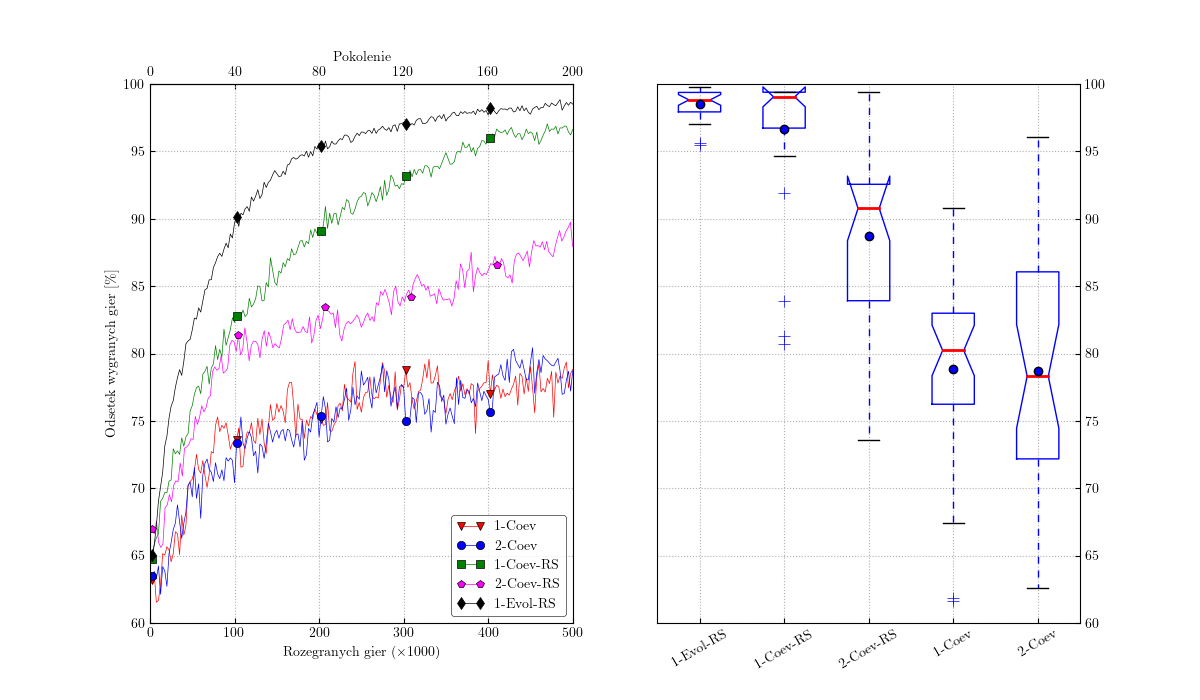
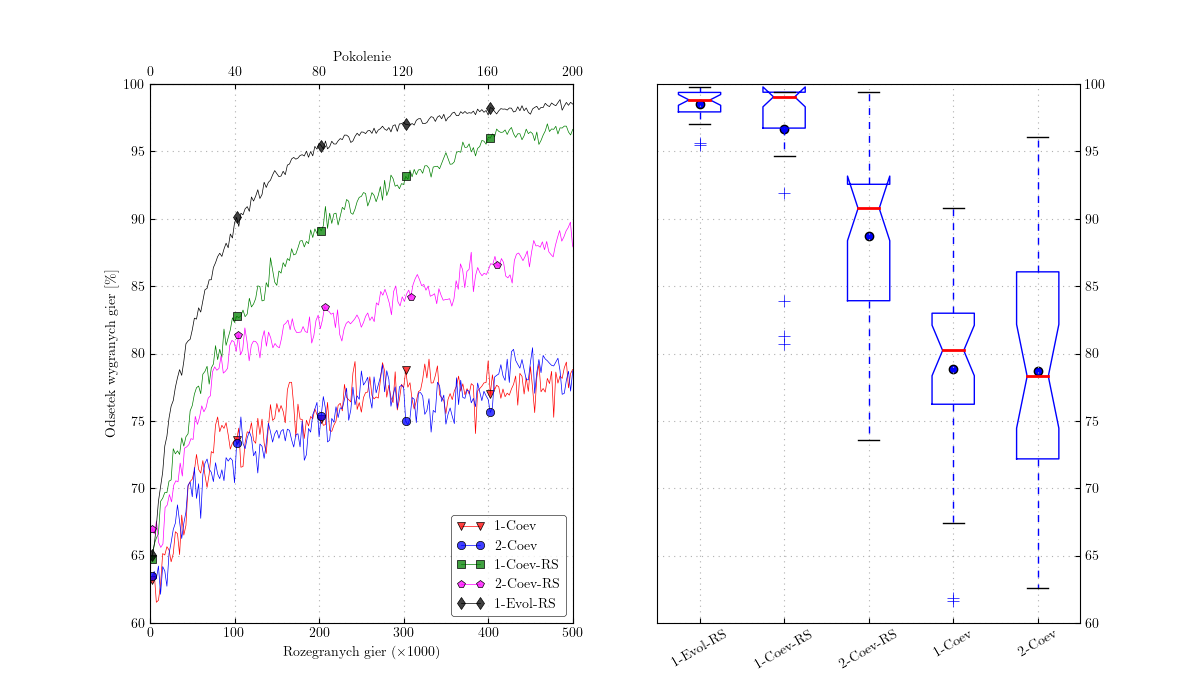
minor style changes

Changed region(s): [[0.37, 0.78, 0.4008, 0.81]]

diff --git a/plot.py b/plot.py
@@ -1,6 +1,6 @@
 import pandas as pd
 import matplotlib.pyplot as plt
-from matplotlib import ticker, rcParams, rc
+from matplotlib import ticker, rcParams, rc, colors
 
 
 def enable_tex():
@@ -58,7 +58,7 @@ def read_data():
 def style_line_plot(axes):
     axes.set_xlabel(r"Rozegranych gier $(\times 1000)$")
     axes.set_ylabel(r"Odsetek wygranych gier $[\%]$")
-    axes.grid(visible = True, linestyle = "dotted")
+    axes.grid(visible = True, linestyle =(0, (1, 4)))
     axes.set_ylim([60,100])
     axes.set_xlim([0,500*1000])
     axes.xaxis.set_major_formatter(lambda x, pos: int(x/1000))
@@ -77,7 +77,7 @@ def style_line_plot(axes):
     sec_xaxis.tick_params(direction = 'in')
     
 def style_box_plot(axes):
-    axes.grid(visible = True, linestyle = "dotted")
+    axes.grid(visible = True, linestyle =(0, (1, 4)))
     axes.set_ylim([60,100])
     axes.yaxis.set_major_locator(ticker.MultipleLocator(5))
     axes.tick_params(axis = 'x', labelrotation = 30)
@@ -91,7 +91,7 @@ flierprops = dict(marker='+', markerfacecolor='b', markersize=8,
 medianprops = dict(linestyle='-', linewidth=2, color='r')
 
 meanpointprops = dict(marker='o', markeredgecolor='black',
-                      markerfacecolor='b')
+                      markerfacecolor='b', zorder = -1)
 
 whiskerprops = dict(linestyle =(0, (5, 5)), color = 'b', linewidth = 1)
 
@@ -123,10 +123,13 @@ def create_plot(algs):
     fig, axes= plt.subplots(1, 2)
 
     for alg in algs:
+        marker_rgba = list(colors.to_rgba(alg['color']))
+        marker_rgba[-1] = 0.75
         alg['df'].plot(ax = axes[0], x = 'effort', y = 'mean',
                     label = alg['label'], marker = alg['marker'], markevery = 40,
                     markeredgecolor='black', color = alg['color'],
-                    markeredgewidth=0.5, linestyle ='-', linewidth = .5)
+                    markeredgewidth=0.5, linestyle ='-', linewidth = .5, markerfacecolor = marker_rgba)
+        
 
 
     finish_results.plot(ax = axes[1], kind = "box", notch = True, flierprops = flierprops,
